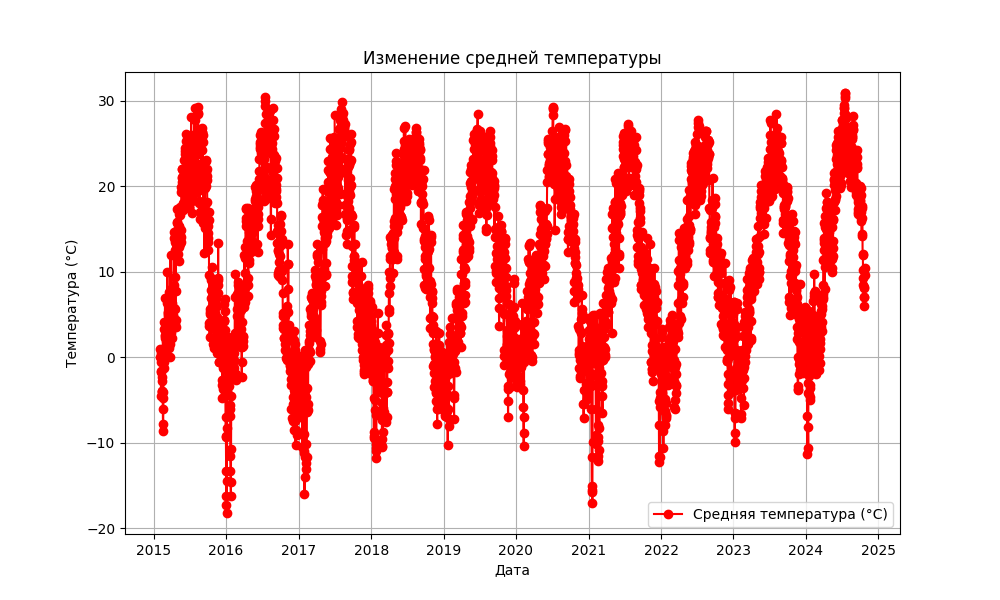
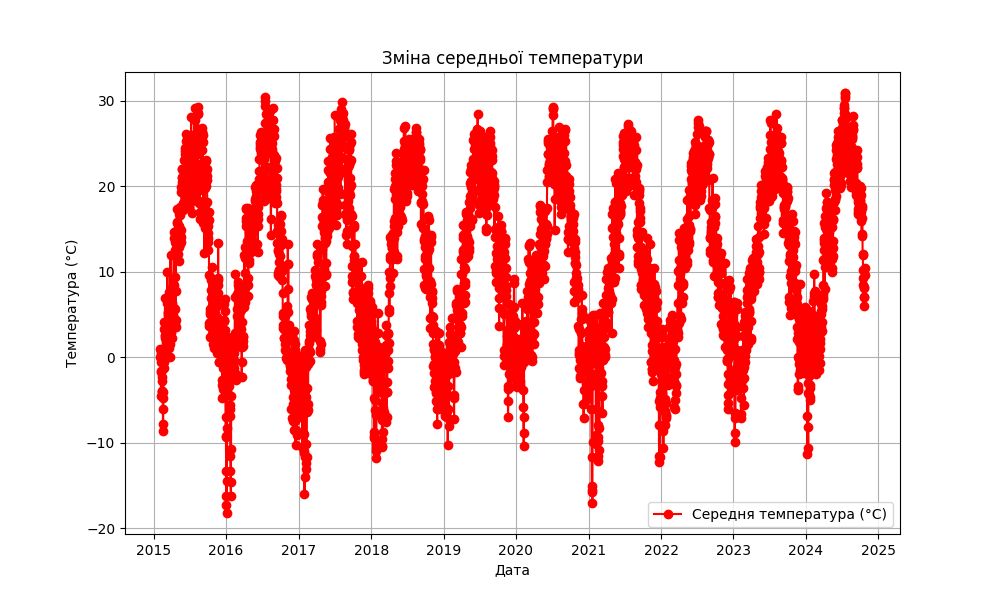
commit

Changed region(s): [[0.372, 0.09, 0.682, 0.12], [0.682, 0.84, 0.899, 0.87]]

diff --git a/templates/teams.html b/templates/teams.html
@@ -85,7 +85,9 @@
   <div class="col-lg-15 mb-2">
     <div class="card">
         <div class="card-body text-center"> 
-            <h5 class="card-title">Керіник проекту: Моренко Олексій Олексійович</h5>
+            <h5 class="card-title">Керіники проекту: </h5>
+            <h5 class="card-title"> Моренко Олексій Олексійович  </h5>
+            <h5 class="card-title"> Моренко Лариса Михайлівна  </h5>
         </div>
     </div>
 </div>

diff --git a/generate_charts.py b/generate_charts.py
@@ -3,14 +3,14 @@ import matplotlib.pyplot as plt
 
 
 def load_data(file_path):
-    data = pd.read_csv(file_path, parse_dates=['date'])  # Чтение с преобразованием дат
+    data = pd.read_csv(file_path, parse_dates=['date'])  
     return data
 
 
 def generate_temperature_chart(data):
     plt.figure(figsize=(10, 6))
-    plt.plot(data['date'], data['tavg'], marker='o', color='red', label='Средняя температура (°C)')
-    plt.title('Изменение средней температуры')
+    plt.plot(data['date'], data['tavg'], marker='o', color='red', label='Середня температура (°C)')
+    plt.title('Зміна середньої температури')
     plt.xlabel('Дата')
     plt.ylabel('Температура (°C)')
     plt.grid(True)
@@ -21,10 +21,10 @@ def generate_temperature_chart(data):
 
 def generate_rainfall_chart(data):
     plt.figure(figsize=(10, 6))
-    plt.plot(data['date'], data['prcp'], marker='o', color='blue', label='Осадки (мм)')
-    plt.title('Изменение уровня осадков')
+    plt.plot(data['date'], data['prcp'], marker='o', color='blue', label='Опади (мм)')
+    plt.title('Зміна рівня опадів')
     plt.xlabel('Дата')
-    plt.ylabel('Осадки (мм)')
+    plt.ylabel('Опади (мм)')
     plt.grid(True)
     plt.legend()
     plt.savefig('static/rainfall_chart.png')
@@ -37,4 +37,4 @@ data = load_data('static/export.csv')
 generate_temperature_chart(data)
 generate_rainfall_chart(data)
 
-print("Графики сгенерированы на основе реальных данных.")
+print("Графіки згенеровані з урахуванням реальних даних")
